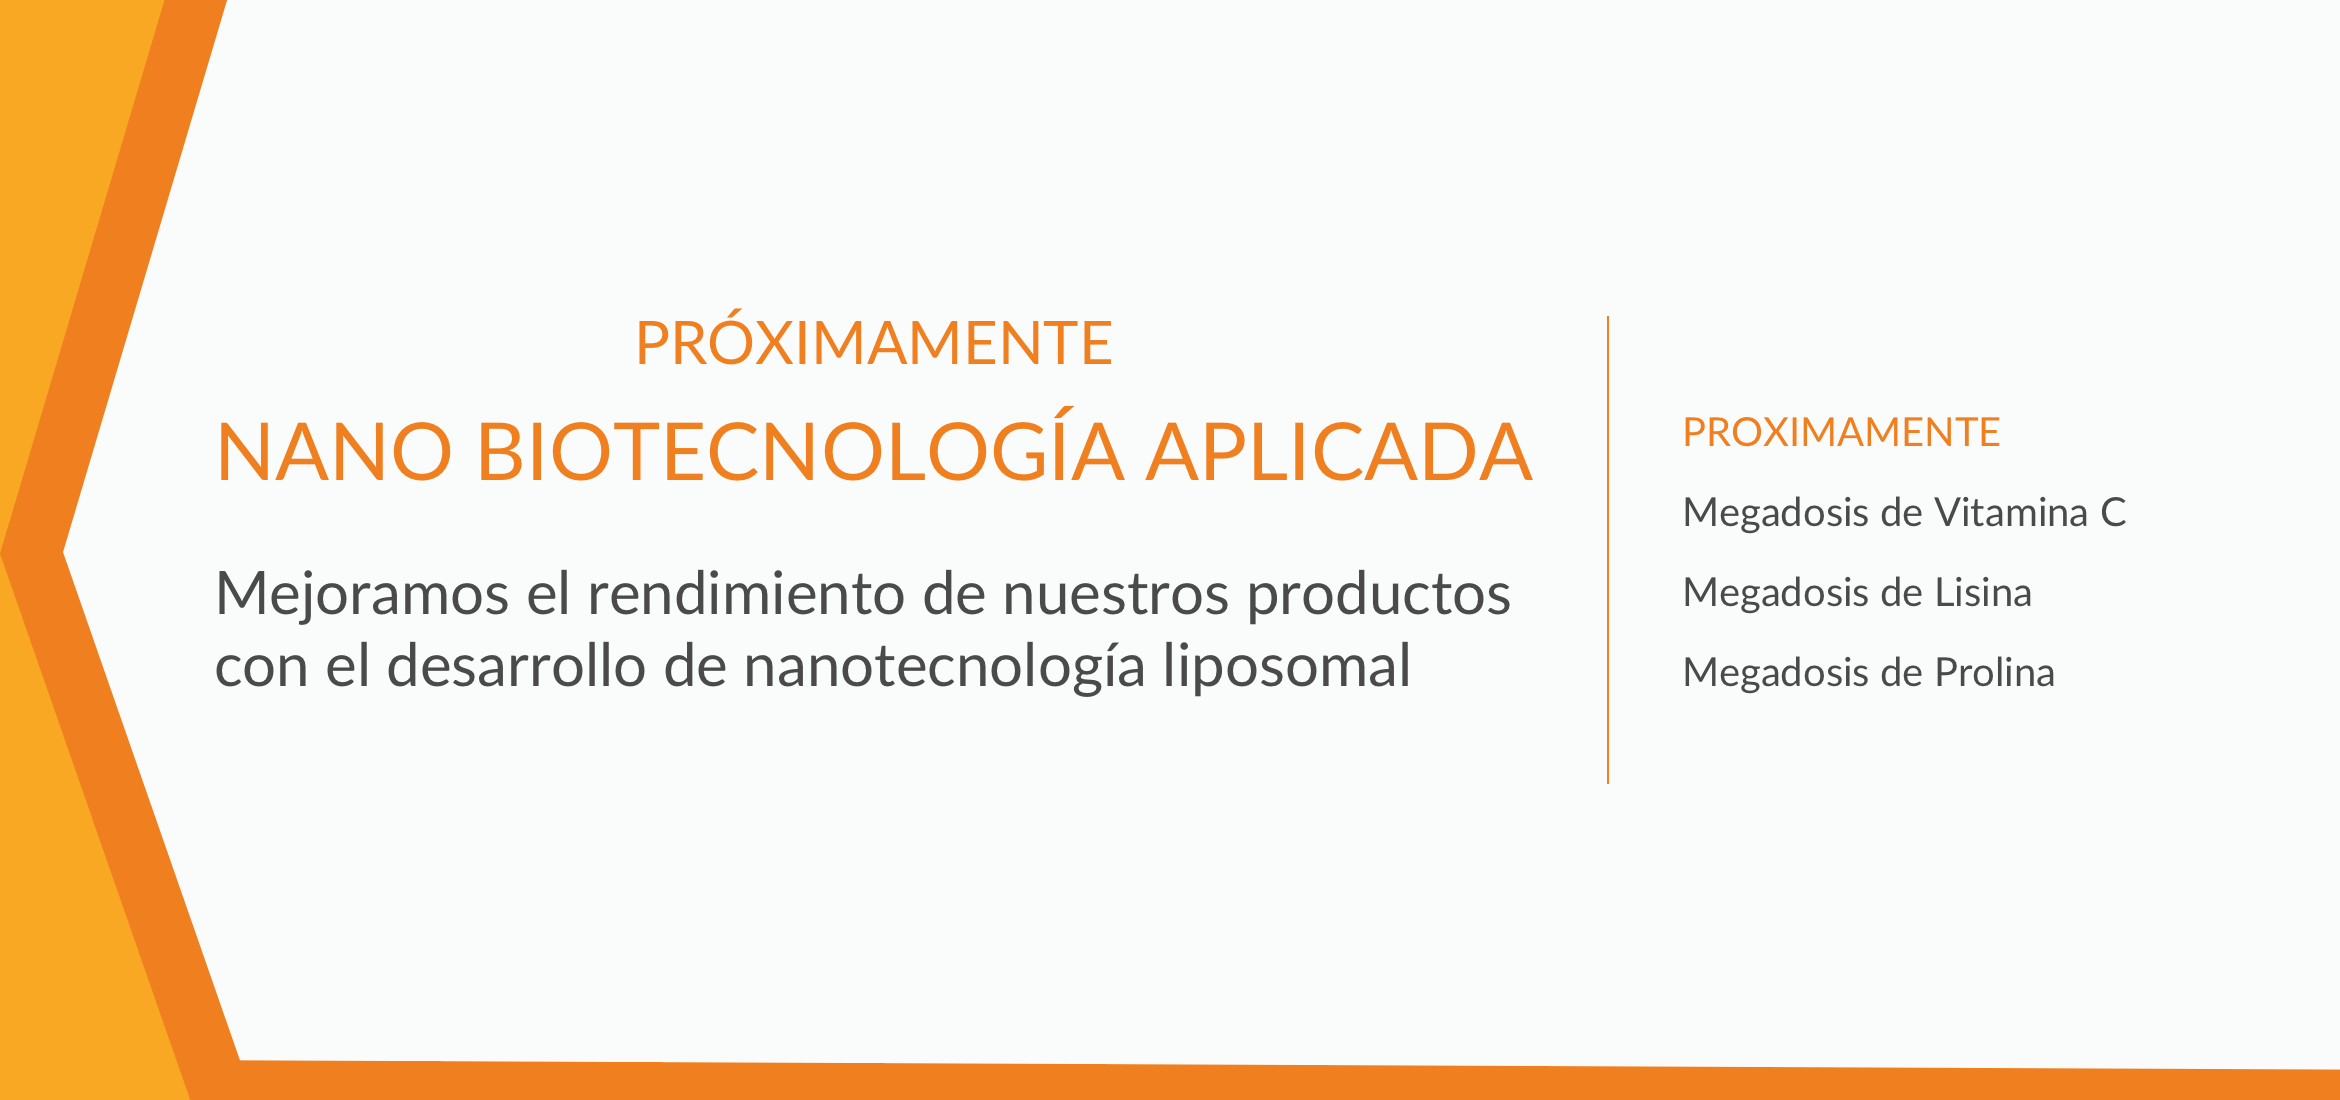
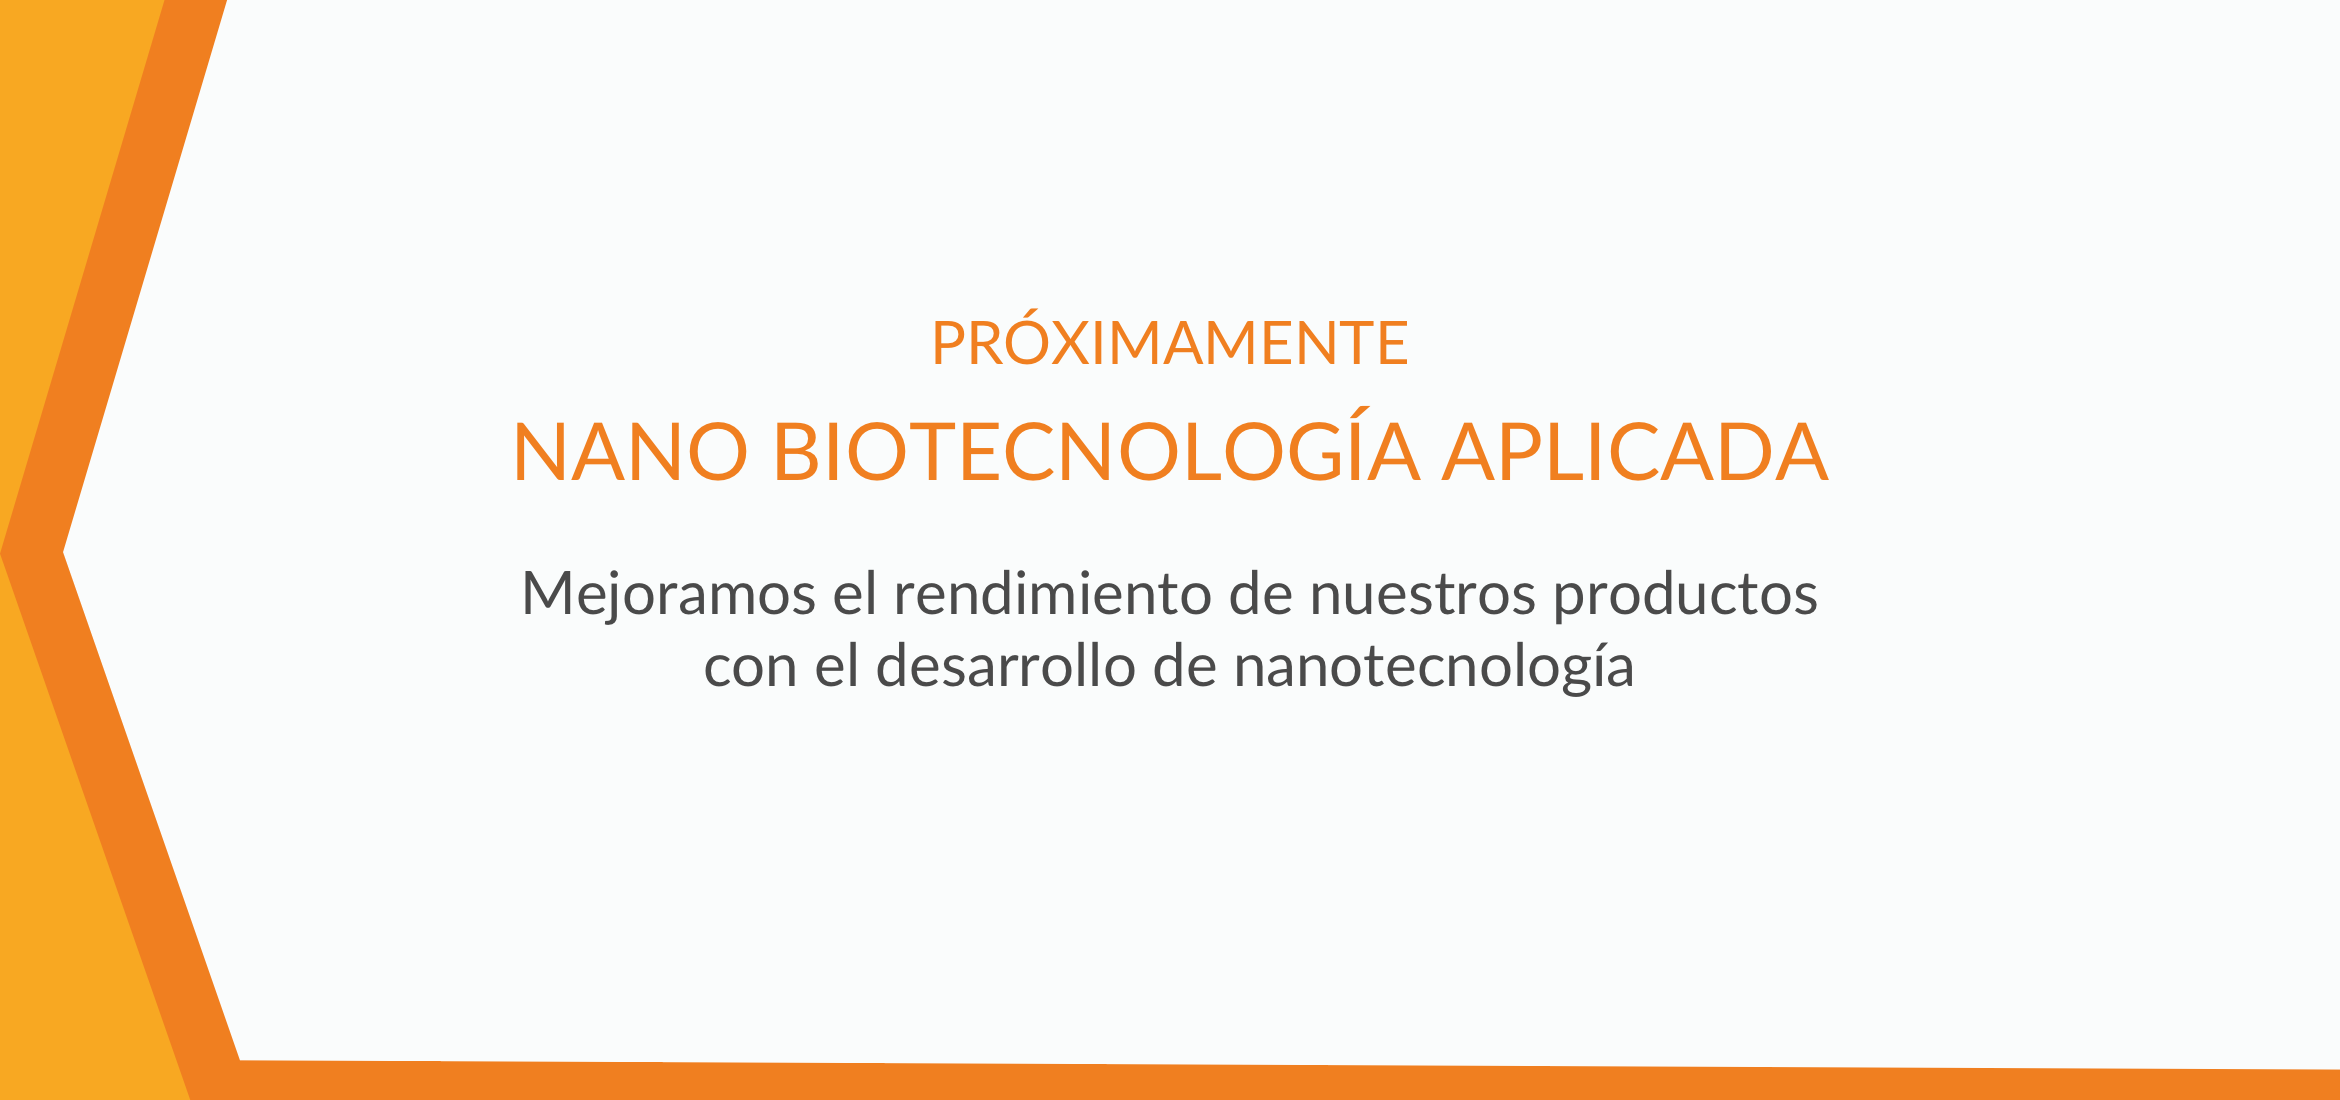
Archivos finales

Changed region(s): [[0.0936, 0.5255, 0.8735, 0.6491], [0.0936, 0.3709, 0.9047, 0.4945], [0.2808, 0.2782, 0.5927, 0.34]]

diff --git a/puntos.html b/puntos.html
@@ -113,7 +113,7 @@
             </li>
             <li role="presentation"> <!-- facts tab menu #4 -->
               <a href="#f4" aria-controls="f4" role="tab" data-toggle="tab">
-                <span class="pull-left">Latacunga, Ambato, Riobamba.</span>
+                <span class="pull-left">Latacunga, Ambato, Riobamba, Imbabura, Esmeraldas.</span>
               </a>
             </li>
             <li role="presentation"> <!-- facts tab menu #5 -->
@@ -160,7 +160,7 @@
             </div>
             <div role="tabpanel" class="tab-pane fade" id="f4" style="margin-top: 50px;"> <!-- facts #4 -->
               <div class="title">
-                <h4>Global Medic<span class="small-nop">Latacunga, Ambato, Riobamba.</span></h4>
+                <h4>Global Medic<span class="small-nop">Latacunga, Ambato, Riobamba, Imbabura, Esmeraldas.</span></h4>
               </div>
               <p>
                 <b>Dirección:</b> La Gatazo.<br><br>
@@ -182,37 +182,35 @@
       </div> <!-- //row -->
     </div> <!-- //container -->
 
-    <div class="container" style="margin-top: 30px;">
-      <div class="row" role="tabpanel"> <!-- row -->
-        <div class="col-md-5 col-md-offset-1"> <!-- tab menu -->
+    <!-- <div class="container" style="margin-top: 30px;">
+      <div class="row" role="tabpanel">
+        <div class="col-md-5 col-md-offset-1">
           <div class="tab-title">
             <h3 class="pull-left">Perú</h3>
             <div class="clearfix"></div>
           </div>
           <ul class="nav nav-pills nav-stacked" role="tablist">
-            <li role="presentation" class="active">  <!-- facts tab menu #1 -->
+            <li role="presentation" class="active">
               <a href="#f1" aria-controls="f1" role="tab" data-toggle="tab">
                 <span class="pull-left">Lima</span>
               </a>
             </li>
           </ul>
-        </div><!-- //tab menu -->
-        <div class="col-md-4 col-md-offset-1"> <!-- right-content -->
-          <!-- Tab panes -->
+        </div>
+        <div class="col-md-4 col-md-offset-1">
           <div class="tab-content product-content">
-            <div role="tabpanel" class="tab-pane fade in active slideInRight" id="f1" style="margin-top: 50px;"> <!-- facts #1 -->
+            <div role="tabpanel" class="tab-pane fade in active slideInRight" id="f1" style="margin-top: 50px;">
               <div class="title">
                 <h4>PAAC SAC <span class="small-nop">Perú</span></h4>
               </div>
               <p>
                 <b>Dirección:</b> Ricardo Angulo 856, Urb. Corpac, San Isidro, Lima.<br><br>
-                <!-- <b>Telf.:</b> -->
               </p>
             </div>
-          </div> <!-- //Tab panes -->
-        </div><!-- //right-content -->
-      </div> <!-- //row -->
-    </div> <!-- //container -->
+          </div>
+        </div>
+      </div>
+    </div>  -->
 
 
 
@@ -262,14 +260,14 @@
                </p>
 
                <h3 style="color: #FFFFFF; font-size: 17px;"><i class="fa fa-envelope" aria-hidden="true"></i> Emails <br></h3>
-               <p style="font-weight: 300; margin-left: 20px; margin-top: 5px;">info@paacc.com <br>
-                  juancarlos@paacc.com
+               <p style="font-weight: 300; margin-left: 20px; margin-top: 5px;">info@paac.life <br>
+                  ventas@paac.life <br> www.paac.life
                </p>
              </div>
 
              <div class="col-md-8 social-icon">
-               <h3 style="color: #FFFFFF; font-size: 17px; text-align: left;">PAAC - C</h3>
-               <p style="text-align: left; font-weight: 300; font-size: 14px; margin-top: 5px;">Lorem ipsum dolor sit amet, consectetur adipisicing elit, sed do eiusmod tempor incididunt ut labore et dolore magna aliqua. Ut enim ad minim veniam.</p>
+               <h3 style="color: #FFFFFF; font-size: 17px;">PAAC - C</h3>
+               <p style="font-weight: 300; font-size: 14px; margin-top: 5px;">¡Salud y Bienestar nuestro desafío!</p>
 
                <ul class="list-inline">
                  <li><a href="#" class="wow zoomIn" data-wow-delay=".25s"><i class="fa fa-facebook"></i></a></li>

diff --git a/index.html b/index.html
@@ -166,13 +166,12 @@
             <p class="title">ML</p>
             <p class="sub-title">150 mg/mL</p>
           </div>
-          <div class="col-lg-3 col-md-4 each-counter wow zoomIn" data-wow-delay=".75s" style="margin-top: 15px; margin-left: -10px;">
+          <!-- <div class="col-lg-3 col-md-4 each-counter wow zoomIn" data-wow-delay=".75s" style="margin-top: 15px; margin-left: -10px;">
             <h2 style="color: #333740;">Linea Liposomal </h2>
-            <!-- <p class="title">ML</p> -->
             <p class="sub-title">Vitamina C</p>
             <p class="sub-title">Lisina</p>
             <p class="sub-title">Prolina</p>
-          </div>
+          </div> -->
           </div> <!-- //row -->
       </div> <!-- //container -->
     </div> <!-- //counter-content -->
@@ -181,7 +180,6 @@
     <div id="features" class="our-features">
       <div class="page-header">
           <h2><span class="wow fadeInLeft" data-wow-delay=".25s">Características</span> <span class="devider wow fadeInUp" data-wow-delay=".25s"> | </span> <span class="right-span wow fadeInRight" data-wow-delay=".25s">Qué ofrecemos</span></h2>
-          <p class="subtitle wow fadeInUp" data-wow-delay=".25s">Lorem ipsum dolor sit amet, consectetuer.</p>
       </div>
       <div class="container">
         <div class="row">
@@ -266,14 +264,14 @@
                </p>
 
                <h3 style="color: #FFFFFF; font-size: 17px;"><i class="fa fa-envelope" aria-hidden="true"></i> Emails <br></h3>
-               <p style="font-weight: 300; margin-left: 20px; margin-top: 5px;">info@paacc.com <br>
-                  juancarlos@paacc.com
+               <p style="font-weight: 300; margin-left: 20px; margin-top: 5px;">info@paac.life <br>
+                  ventas@paac.life <br> www.paac.life
                </p>
              </div>
 
              <div class="col-md-8 social-icon">
-               <h3 style="color: #FFFFFF; font-size: 17px; text-align: left;">PAAC - C</h3>
-               <p style="text-align: left; font-weight: 300; font-size: 14px; margin-top: 5px;">Lorem ipsum dolor sit amet, consectetur adipisicing elit, sed do eiusmod tempor incididunt ut labore et dolore magna aliqua. Ut enim ad minim veniam.</p>
+               <h3 style="color: #FFFFFF; font-size: 17px;">PAAC - C</h3>
+               <p style="font-weight: 300; font-size: 14px; margin-top: 5px;">¡Salud y Bienestar nuestro desafío!</p>
 
                <ul class="list-inline">
                  <li><a href="#" class="wow zoomIn" data-wow-delay=".25s"><i class="fa fa-facebook"></i></a></li>

diff --git a/inyectologia.html b/inyectologia.html
@@ -102,7 +102,7 @@
           <p>Grecia N32-112 y La Granja <br>Quito, Ecuador. <br><br></p>
 
           <h4>Email</h4>
-          <p>info@paacc.com <br><br></p>
+          <p>paacvital@paac.life <br><br></p>
 
           <h4>Teléfonos</h4>
           <p>(+593) 099 - 844 - 0397 <br><br></p>
@@ -223,14 +223,14 @@
                </p>
 
                <h3 style="color: #FFFFFF; font-size: 17px;"><i class="fa fa-envelope" aria-hidden="true"></i> Emails <br></h3>
-               <p style="font-weight: 300; margin-left: 20px; margin-top: 5px;">info@paacc.com <br>
-                  juancarlos@paacc.com
+               <p style="font-weight: 300; margin-left: 20px; margin-top: 5px;">info@paac.life <br>
+                  ventas@paac.life
                </p>
              </div>
 
              <div class="col-md-8 social-icon">
-               <h3 style="color: #FFFFFF; font-size: 17px; text-align: left;">PAAC - C</h3>
-               <p style="text-align: left; font-weight: 300; font-size: 14px; margin-top: 5px;">Lorem ipsum dolor sit amet, consectetur adipisicing elit, sed do eiusmod tempor incididunt ut labore et dolore magna aliqua. Ut enim ad minim veniam.</p>
+               <h3 style="color: #FFFFFF; font-size: 17px;">PAAC - C</h3>
+               <p style="font-weight: 300; font-size: 14px; margin-top: 5px;">¡Salud y Bienestar nuestro desafío!</p>
 
                <ul class="list-inline">
                  <li><a href="#" class="wow zoomIn" data-wow-delay=".25s"><i class="fa fa-facebook"></i></a></li>

diff --git a/nosotros.html b/nosotros.html
@@ -204,14 +204,14 @@
                </p>
 
                <h3 style="color: #FFFFFF; font-size: 17px;"><i class="fa fa-envelope" aria-hidden="true"></i> Emails <br></h3>
-               <p style="font-weight: 300; margin-left: 20px; margin-top: 5px;">info@paacc.com <br>
-                  juancarlos@paacc.com
+               <p style="font-weight: 300; margin-left: 20px; margin-top: 5px;">info@paac.life <br>
+                  ventas@paac.life <br> www.paac.life
                </p>
              </div>
 
              <div class="col-md-8 social-icon">
-               <h3 style="color: #FFFFFF; font-size: 17px; text-align: left;">PAAC - C</h3>
-               <p style="text-align: left; font-weight: 300; font-size: 14px; margin-top: 5px;">Lorem ipsum dolor sit amet, consectetur adipisicing elit, sed do eiusmod tempor incididunt ut labore et dolore magna aliqua. Ut enim ad minim veniam.</p>
+               <h3 style="color: #FFFFFF; font-size: 17px;">PAAC - C</h3>
+               <p style="font-weight: 300; font-size: 14px; margin-top: 5px;">¡Salud y Bienestar nuestro desafío!</p>
 
                <ul class="list-inline">
                  <li><a href="#" class="wow zoomIn" data-wow-delay=".25s"><i class="fa fa-facebook"></i></a></li>

diff --git a/productos.html b/productos.html
@@ -640,14 +640,14 @@
                </p>
 
                <h3 style="color: #FFFFFF; font-size: 17px;"><i class="fa fa-envelope" aria-hidden="true"></i> Emails <br></h3>
-               <p style="font-weight: 300; margin-left: 20px; margin-top: 5px;">info@paacc.com <br>
-                  juancarlos@paacc.com
+               <p style="font-weight: 300; margin-left: 20px; margin-top: 5px;">info@paac.life <br>
+                  ventas@paac.life <br> www.paac.life
                </p>
              </div>
 
              <div class="col-md-8 social-icon">
-               <h3 style="color: #FFFFFF; font-size: 17px; text-align: left;">PAAC - C</h3>
-               <p style="text-align: left; font-weight: 300; font-size: 14px; margin-top: 5px;">Lorem ipsum dolor sit amet, consectetur adipisicing elit, sed do eiusmod tempor incididunt ut labore et dolore magna aliqua. Ut enim ad minim veniam.</p>
+               <h3 style="color: #FFFFFF; font-size: 17px;">PAAC - C</h3>
+               <p style="font-weight: 300; font-size: 14px; margin-top: 5px;">¡Salud y Bienestar nuestro desafío!</p>
 
                <ul class="list-inline">
                  <li><a href="#" class="wow zoomIn" data-wow-delay=".25s"><i class="fa fa-facebook"></i></a></li>

diff --git a/contacto.html b/contacto.html
@@ -156,14 +156,14 @@
                </p>
 
                <h3 style="color: #FFFFFF; font-size: 17px;"><i class="fa fa-envelope" aria-hidden="true"></i> Emails <br></h3>
-               <p style="font-weight: 300; margin-left: 20px; margin-top: 5px;">info@paacc.com <br>
-                  juancarlos@paacc.com
+               <p style="font-weight: 300; margin-left: 20px; margin-top: 5px;">info@paac.life <br>
+                  ventas@paac.life <br> www.paac.life
                </p>
              </div>
 
              <div class="col-md-8 social-icon">
-               <h3 style="color: #FFFFFF; font-size: 17px; text-align: left;">PAAC - C</h3>
-               <p style="text-align: left; font-weight: 300; font-size: 14px; margin-top: 5px;">Lorem ipsum dolor sit amet, consectetur adipisicing elit, sed do eiusmod tempor incididunt ut labore et dolore magna aliqua. Ut enim ad minim veniam.</p>
+               <h3 style="color: #FFFFFF; font-size: 17px;">PAAC - C</h3>
+               <p style="font-weight: 300; font-size: 14px; margin-top: 5px;">¡Salud y Bienestar nuestro desafío!</p>
 
 
 
